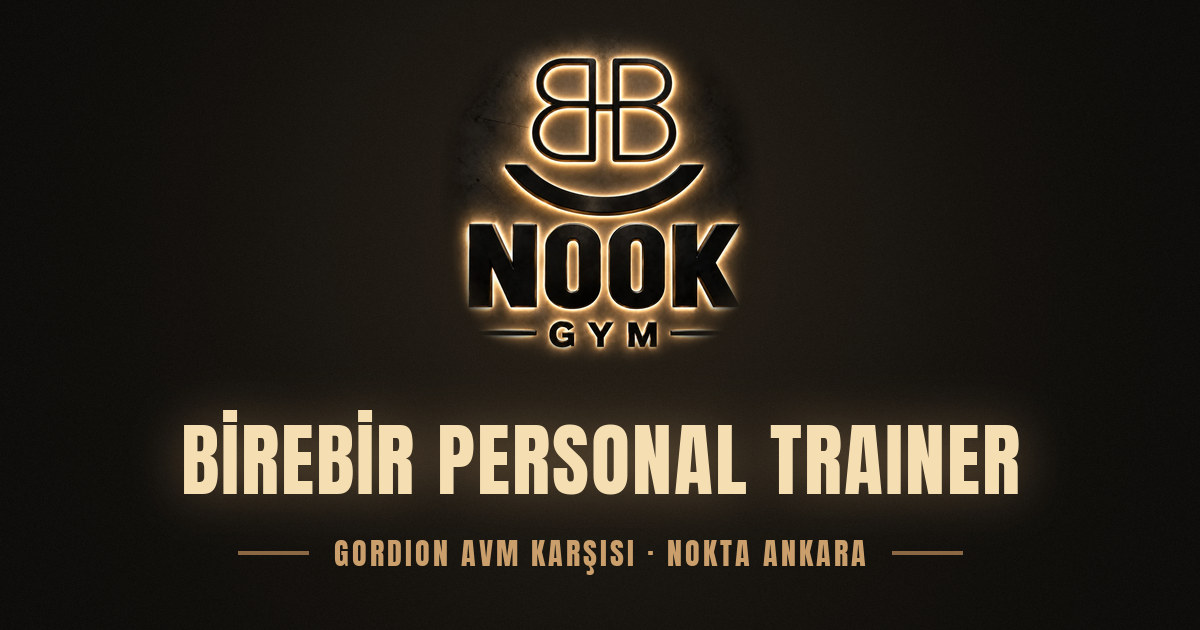
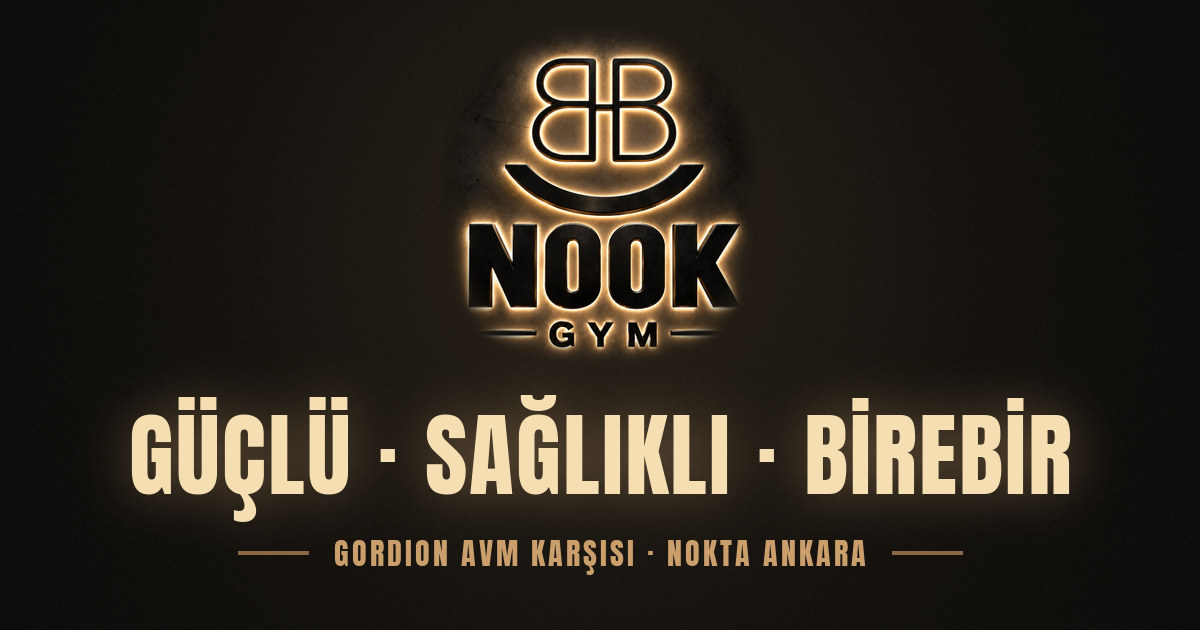
Baslik: Guclu. Saglikli. Birebir. + paylasim gorseli

Changed region(s): [[0.0925, 0.6032, 0.8942, 0.8444]]

diff --git a/index.html b/index.html
@@ -13,24 +13,24 @@
 <link rel="apple-touch-icon" href="/assets/apple-touch-icon.png?v=21e5dc8f00">
 <link rel="manifest" href="/site.webmanifest">
 
-<title>NookGym · Birebir Personal Trainer · Ümitköy, Ankara</title>
-<meta name="description" content="Ümitköy'de, Gordion AVM karşısında birebir Personal Trainer stüdyosu. Saatlik PT dersleri, PT paketleri, aylık üyelik.">
+<title>NookGym · Ümitköy'de Personal Trainer ve Spor Salonu</title>
+<meta name="description" content="Uzman eğitmeninle birebir antrenman, kalabalık yok. Ümitköy'de, Gordion AVM karşısında. Saatlik PT dersleri, PT paketleri ve aylık üyelik.">
 <link rel="canonical" href="https://nookgym.com.tr/">
 <link rel="preload" as="image" type="image/webp" imagesrcset="/assets/logo-583x627.webp?v=d474e4c88e 583w, /assets/logo-1166x1254.webp?v=88137894a3 1166w" imagesizes="(min-width: 900px) 354px, 64vw" fetchpriority="high">
 <meta property="og:type" content="website">
 <meta property="og:locale" content="tr_TR">
 <meta property="og:site_name" content="NookGym">
 <meta property="og:url" content="https://nookgym.com.tr/">
-<meta property="og:title" content="NookGym · Ümitköy'de birebir Personal Trainer stüdyosu">
-<meta property="og:description" content="Ümitköy'de birebir Personal Trainer odaklı butik spor salonu. Gordion AVM karşısı · Nokta Ankara.">
+<meta property="og:title" content="NookGym · Güçlü. Sağlıklı. Birebir.">
+<meta property="og:description" content="Uzman eğitmeninle birebir antrenman. Ümitköy · Gordion AVM karşısı · Nokta Ankara.">
 <meta property="og:image" content="https://nookgym.com.tr/assets/og-image.jpg">
 <meta property="og:image:type" content="image/jpeg">
 <meta property="og:image:width" content="1200">
 <meta property="og:image:height" content="630">
-<meta property="og:image:alt" content="NookGym logosu ve “Birebir Personal Trainer” yazısı">
+<meta property="og:image:alt" content="NookGym logosu ve “Güçlü. Sağlıklı. Birebir.” yazısı">
 <meta name="twitter:card" content="summary_large_image">
-<meta name="twitter:title" content="NookGym · Ümitköy'de birebir Personal Trainer stüdyosu">
-<meta name="twitter:description" content="Ümitköy'de birebir Personal Trainer odaklı butik spor salonu.">
+<meta name="twitter:title" content="NookGym · Güçlü. Sağlıklı. Birebir.">
+<meta name="twitter:description" content="Uzman eğitmeninle birebir antrenman. Ümitköy · Gordion AVM karşısı.">
 <meta name="twitter:image" content="https://nookgym.com.tr/assets/og-image.jpg">
 <script type="application/ld+json">
 {
@@ -38,8 +38,8 @@
   "@type": "HealthClub",
   "@id": "https://nookgym.com.tr/#isletme",
   "name": "NookGym",
-  "slogan": "Birebir Personal Trainer stüdyosu",
-  "description": "Ümitköy'de birebir Personal Trainer odaklı butik spor salonu. Saatlik PT dersleri, PT paketleri ve aylık üyelik.",
+  "slogan": "Güçlü. Sağlıklı. Birebir.",
+  "description": "Uzman eğitmeninle birebir antrenman, kalabalık yok. Ümitköy'de, Gordion AVM karşısında. Saatlik PT dersleri, PT paketleri ve aylık üyelik.",
   "url": "https://nookgym.com.tr/",
   "logo": "https://nookgym.com.tr/assets/icon-512.png",
   "image": "https://nookgym.com.tr/assets/og-image.jpg",
@@ -103,8 +103,8 @@
                data-webm="/assets/hero-acilis-720x720.webm?v=8dc4af63dd" data-mp4="/assets/hero-acilis-720x720.mp4?v=d1ec4f9302"></video>
       </div>
       <p class="ust-etiket">Ümitköy · Gordion AVM karşısı</p>
-      <h1 id="giris-baslik"><span class="gizli">NookGym: </span>Birebir <span lang="en">Personal Trainer</span> stüdyosu</h1>
-      <p class="giris-metin">Saatlik PT dersleri, PT paketleri ve aylık üyelik.</p>
+      <h1 id="giris-baslik"><span class="gizli">NookGym: </span>Güçlü. Sağlıklı. Birebir.</h1>
+      <p class="giris-metin">Uzman eğitmeninle birebir antrenman. Kalabalık yok, odak sende.</p>
       <div class="dugmeler">
         <a class="btn btn-ana" href="https://ig.me/m/nookgym_">Bilgi al / Deneme dersi</a>
         <a class="btn btn-ikincil" href="#konum">
@@ -258,7 +258,7 @@
       <img src="/assets/favicon.svg?v=efe89bbaf9" width="40" height="40" alt="" loading="lazy">
       <div>
         <p class="alt-ad">NookGym</p>
-        <p class="alt-slogan">Birebir Personal Trainer stüdyosu · Ümitköy</p>
+        <p class="alt-slogan">Güçlü. Sağlıklı. Birebir. · Ümitköy</p>
       </div>
     </div>
     <nav class="alt-nav" aria-label="Alt bağlantılar">

diff --git a/404.html b/404.html
@@ -57,7 +57,7 @@
       <img src="/assets/favicon.svg?v=efe89bbaf9" width="40" height="40" alt="" loading="lazy">
       <div>
         <p class="alt-ad">NookGym</p>
-        <p class="alt-slogan">Birebir Personal Trainer stüdyosu · Ümitköy</p>
+        <p class="alt-slogan">Güçlü. Sağlıklı. Birebir. · Ümitköy</p>
       </div>
     </div>
     <nav class="alt-nav" aria-label="Alt bağlantılar">
